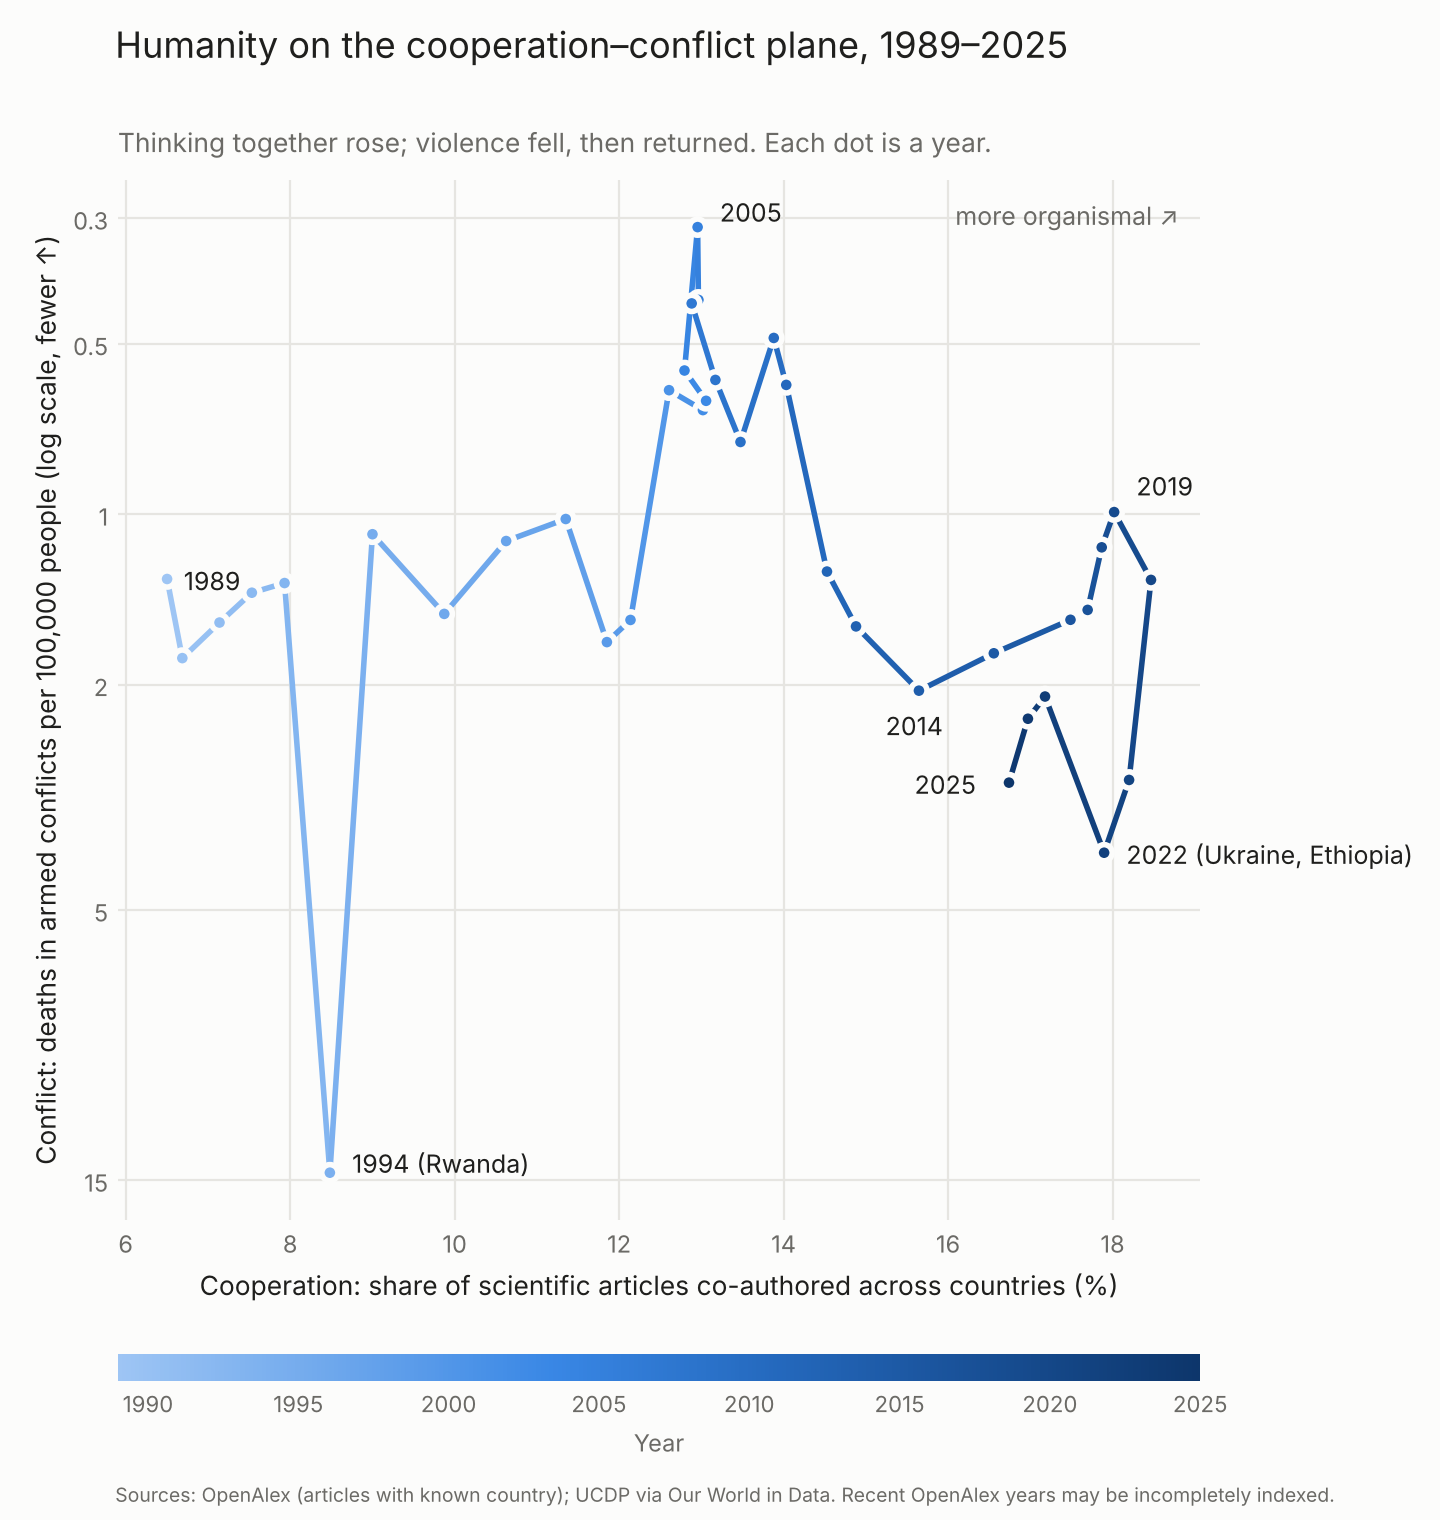
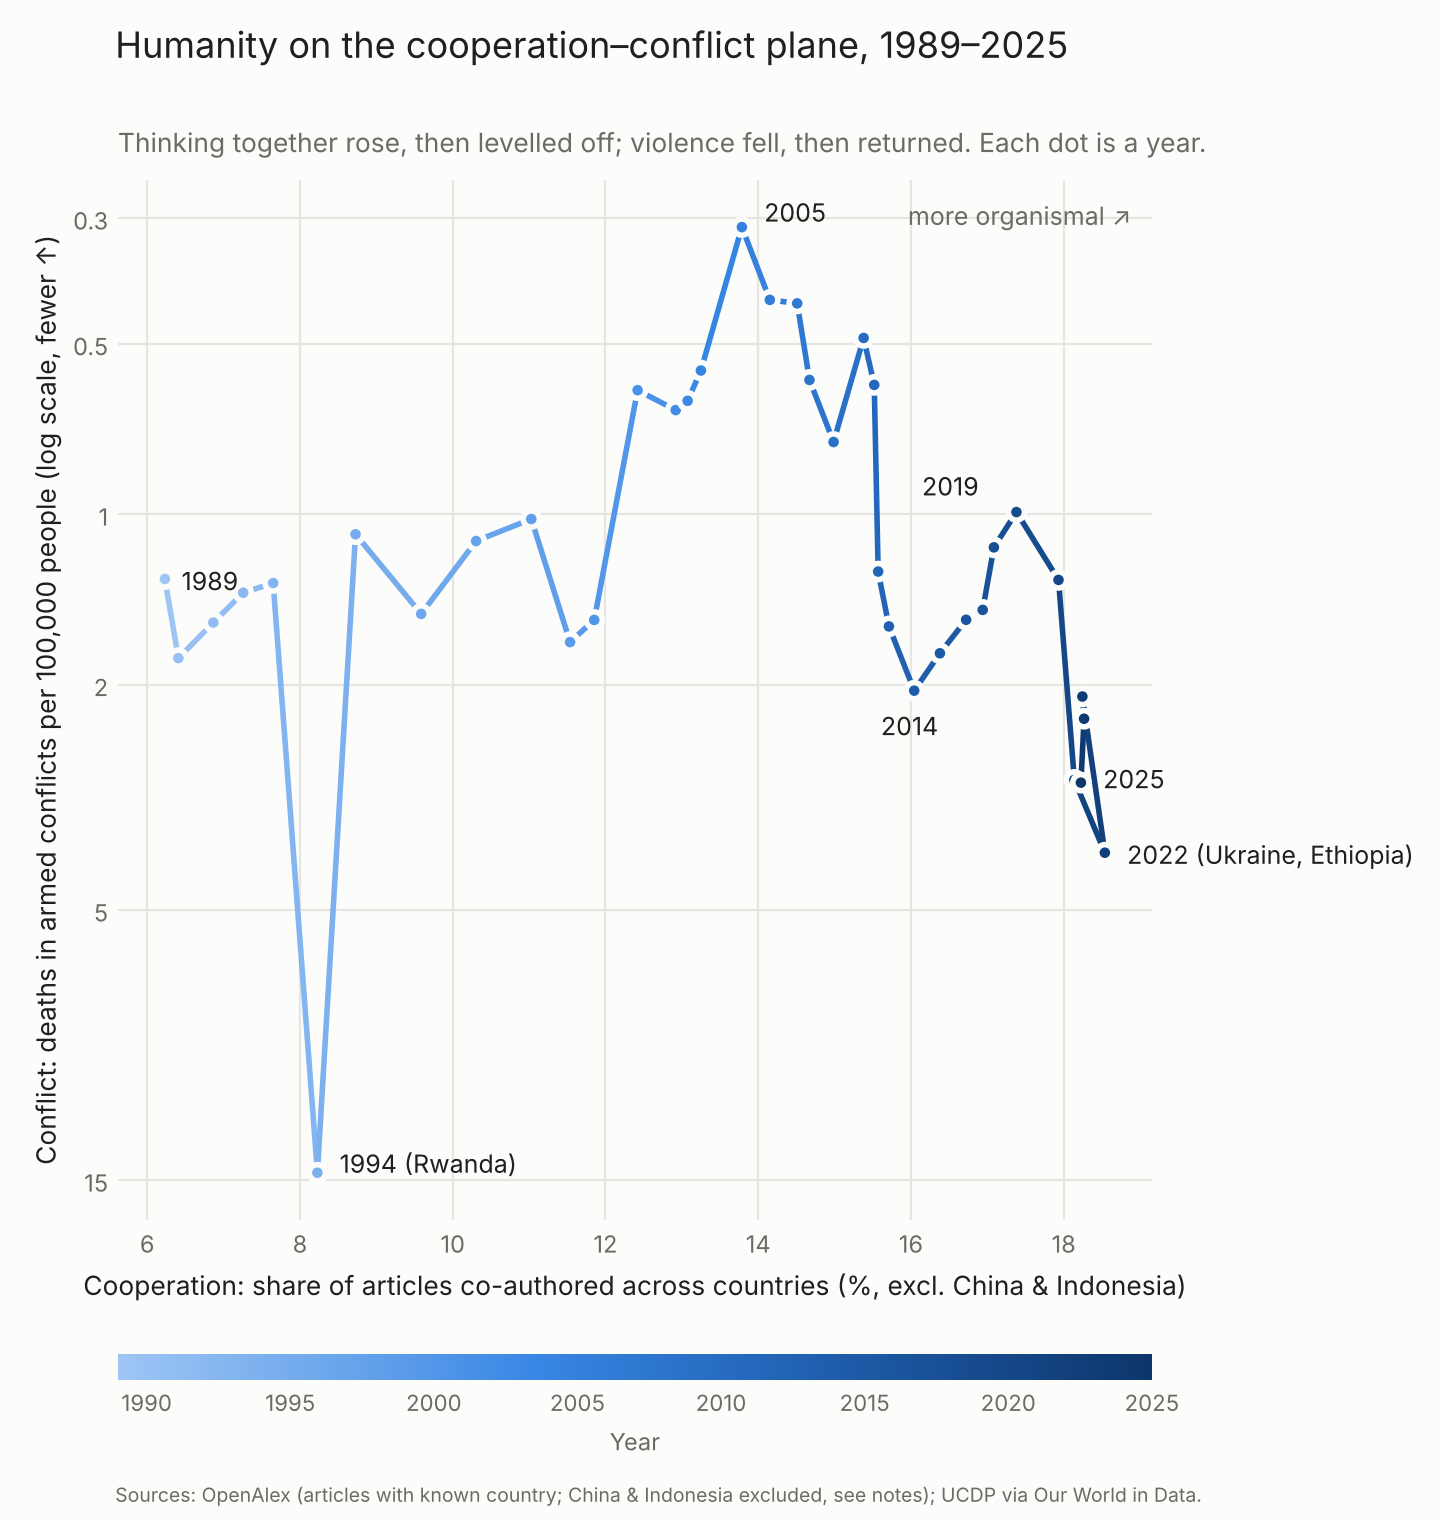
Composition control: co-authorship excl. China & Indonesia; redraw plane

diff --git a/analysis/organismality_plane.py b/analysis/organismality_plane.py
@@ -1,6 +1,7 @@
 """Humanity's path on the cooperation-conflict plane, 1989-2025.
 
-x: international co-authorship share of articles (OpenAlex) - cognitive cooperation
+x: international co-authorship share of articles (OpenAlex), excluding papers with Chinese or
+   Indonesian authors (composition/coverage control) - cognitive cooperation
 y: death rate in armed conflicts per 100,000 (UCDP via OWID), log scale, inverted
    so that up = less conflict. Upper right = more organismal (high cooperation,
    low conflict; cf. Queller & Strassmann 2009, citation unverified).
@@ -17,8 +18,10 @@ import pandas as pd
 
 root = Path(__file__).resolve().parents[1]
 g = lambda f: {int(x["key"]): x["count"] for x in json.load(open(root / f))["group_by"]}
-m = g("data/openalex_articles_multicountry_by_year.json")
-a = g("data/openalex_articles_anycountry_by_year.json")
+# Excluding China and Indonesia: their 2020-25 single-country growth (and OpenAlex coverage
+# changes for Indonesia) otherwise creates an artificial dip in the share. See data/README_cooperation.md.
+m = g("data/openalex_articles_multicountry_by_year_excl_CN_ID.json")
+a = g("data/openalex_articles_anycountry_by_year_excl_CN_ID.json")
 d = pd.read_csv(root / "data/owid_ucdp_death_rate_armed_conflicts.csv")
 conf = d[d.Entity == "World"].set_index("Year")[d.columns[3]]
 years = list(range(1989, 2026))
@@ -36,12 +39,12 @@ for i in range(len(years) - 1):
     ax.plot(x[i:i + 2], y[i:i + 2], color=cmap(norm(years[i])), lw=2, solid_capstyle="round", zorder=2)
 ax.scatter(x, y, c=[cmap(norm(t)) for t in years], s=34, edgecolors=SURF, linewidths=2, zorder=3)
 ax.set_yscale("log"); ax.invert_yaxis()
-labels = {1989: (6, -4), 1994: (8, 0), 2005: (8, 2), 2014: (-12, -16), 2019: (8, 6), 2022: (8, -4), 2025: (-34, -4)}
+labels = {1989: (6, -4), 1994: (8, 0), 2005: (8, 2), 2014: (-12, -16), 2019: (-34, 6), 2022: (8, -4), 2025: (8, -2)}
 for t, (dx, dy) in labels.items():
     i = years.index(t)
     txt = {1994: "1994 (Rwanda)", 2022: "2022 (Ukraine, Ethiopia)"}.get(t, str(t))
     ax.annotate(txt, (x[i], y[i]), xytext=(dx, dy), textcoords="offset points", fontsize=9, color=INK)
-ax.set_xlabel("Cooperation: share of scientific articles co-authored across countries (%)", color=INK, fontsize=9.5)
+ax.set_xlabel("Cooperation: share of articles co-authored across countries (%, excl. China & Indonesia)", color=INK, fontsize=9.5)
 ax.set_ylabel("Conflict: deaths in armed conflicts per 100,000 people (log scale, fewer ↑)", color=INK, fontsize=9.5)
 ax.set_yticks([0.3, 0.5, 1, 2, 5, 15]); ax.set_yticklabels(["0.3", "0.5", "1", "2", "5", "15"])
 ax.grid(True, which="major", color=GRID, lw=0.8); ax.minorticks_off()
@@ -49,8 +52,8 @@ for s in ax.spines.values(): s.set_visible(False)
 ax.tick_params(colors=MUTED, labelsize=8.5, length=0)
 ax.text(0.98, 0.98, "more organismal ↗", transform=ax.transAxes, ha="right", va="top", fontsize=9, color=MUTED)
 fig.suptitle("Humanity on the cooperation–conflict plane, 1989–2025", x=0.08, ha="left", fontsize=13, color=INK, y=0.985)
-ax.set_title("Thinking together rose; violence fell, then returned. Each dot is a year.", loc="left", fontsize=9.5, color=MUTED, pad=10)
-fig.text(0.08, 0.012, "Sources: OpenAlex (articles with known country); UCDP via Our World in Data. Recent OpenAlex years may be incompletely indexed.",
+ax.set_title("Thinking together rose, then levelled off; violence fell, then returned. Each dot is a year.", loc="left", fontsize=9.5, color=MUTED, pad=10)
+fig.text(0.08, 0.012, "Sources: OpenAlex (articles with known country; China & Indonesia excluded, see notes); UCDP via Our World in Data.",
          fontsize=7, color=MUTED, ha="left")
 sm = plt.cm.ScalarMappable(cmap=cmap, norm=norm)
 cb = fig.colorbar(sm, ax=ax, orientation="horizontal", fraction=0.035, pad=0.11, aspect=40)

diff --git a/data/README_cooperation.md b/data/README_cooperation.md
@@ -14,3 +14,12 @@
 3. Ozone-depleting substances (one global collective action; saturating)
    - `owid_ozone_depleting_substance_consumption.csv`: Our World in Data, consumption by gas, ODP tonnes; "World" = sum of gases.
      Source as given by OWID (UNEP Ozone Secretariat data). Years 1986–2021 for World.
+
+## Composition control (added 20 Oct 2026)
+- `openalex_single_country_2020_by_country.json`, `openalex_single_country_2025_by_country.json`: single-country articles by country.
+  Of the +1.10 M growth in single-country articles 2020→2025, China contributed +456 k (41%) and Indonesia +366 k (33%; likely
+  OpenAlex coverage expansion of Indonesian journals — inference, not verified).
+- `openalex_articles_multicountry_by_year_excl_CN_ID.json`, `openalex_articles_anycountry_by_year_excl_CN_ID.json`: same series
+  excluding any article with an author in China or Indonesia (filters authorships.countries:!CN and !ID).
+- Result: with all countries the share falls 18.5% (2020) → 16.7% (2025); excluding CN & ID it is 17.9% → 18.2% (plateau since 2021).
+  The apparent post-2020 decline is a composition/coverage effect. Use the excluded series for trend statements.
